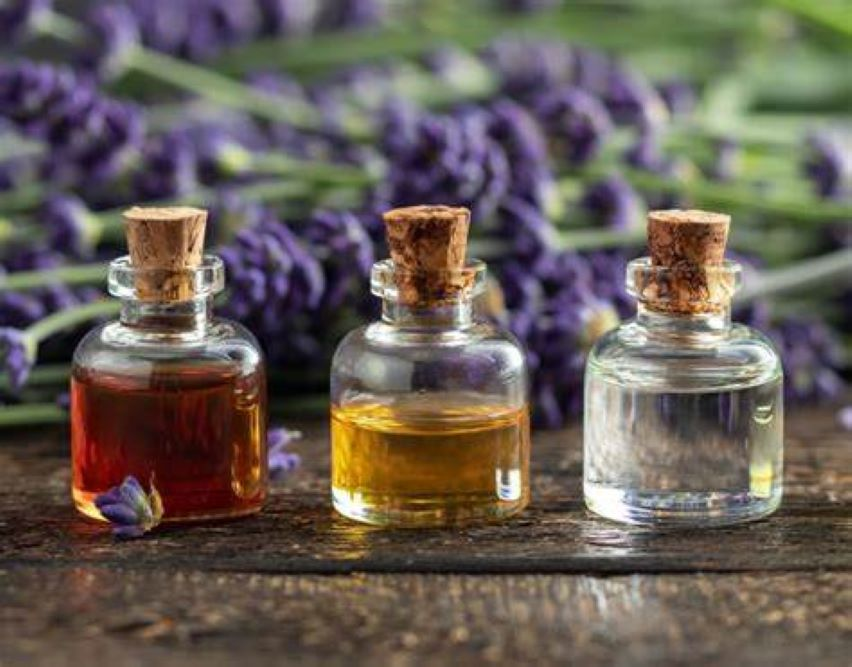
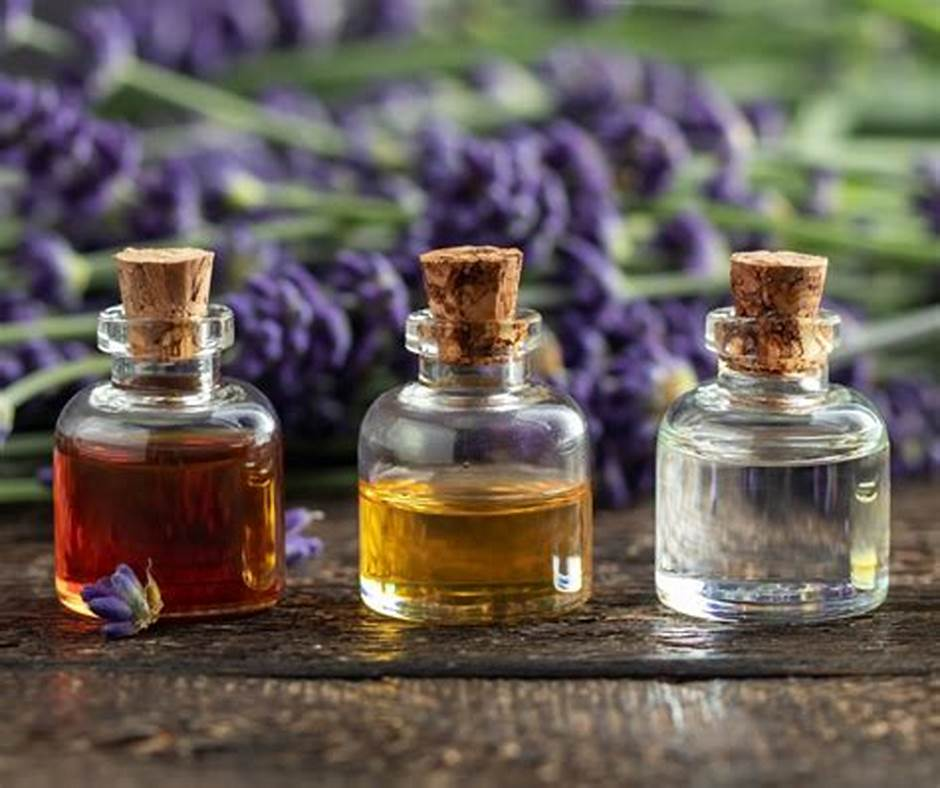
change background

diff --git a/style.css b/style.css
@@ -12,7 +12,7 @@ body{
     justify-content: center;
     align-items: center;
     min-height: 100vh;
-    background: url(essential_oils_dark.jpg) no-repeat;
+    background: url(essential_oils.jpg) no-repeat;
     background-size: cover;
     background-position: center;
 }
